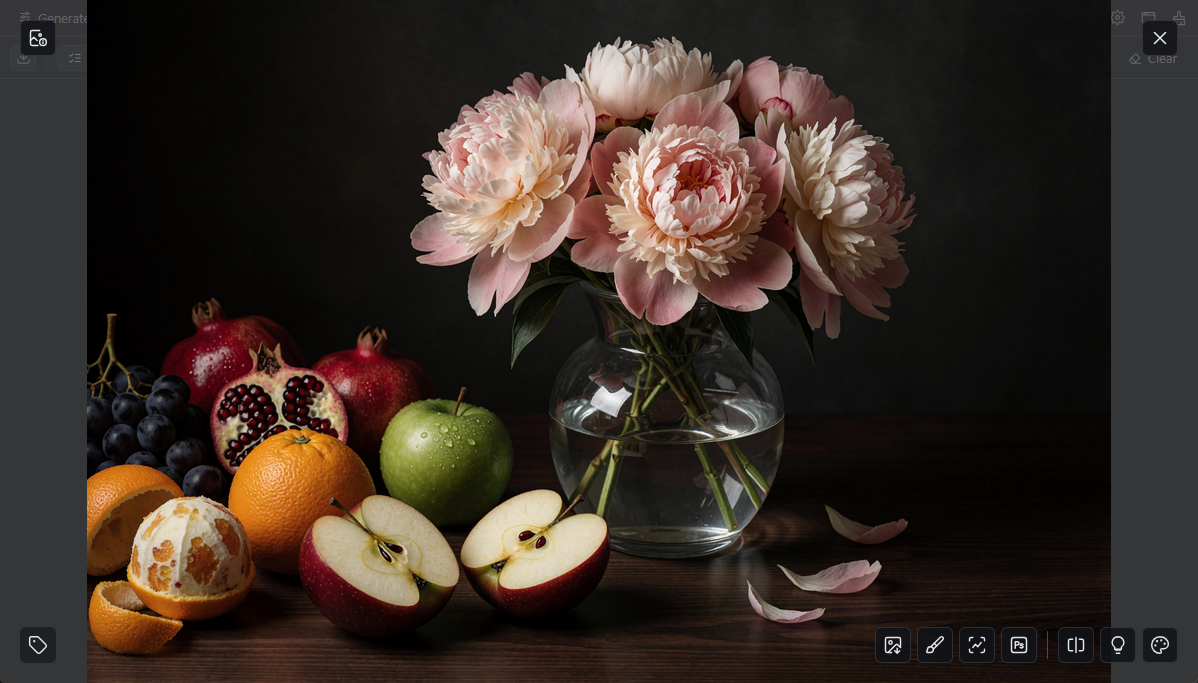
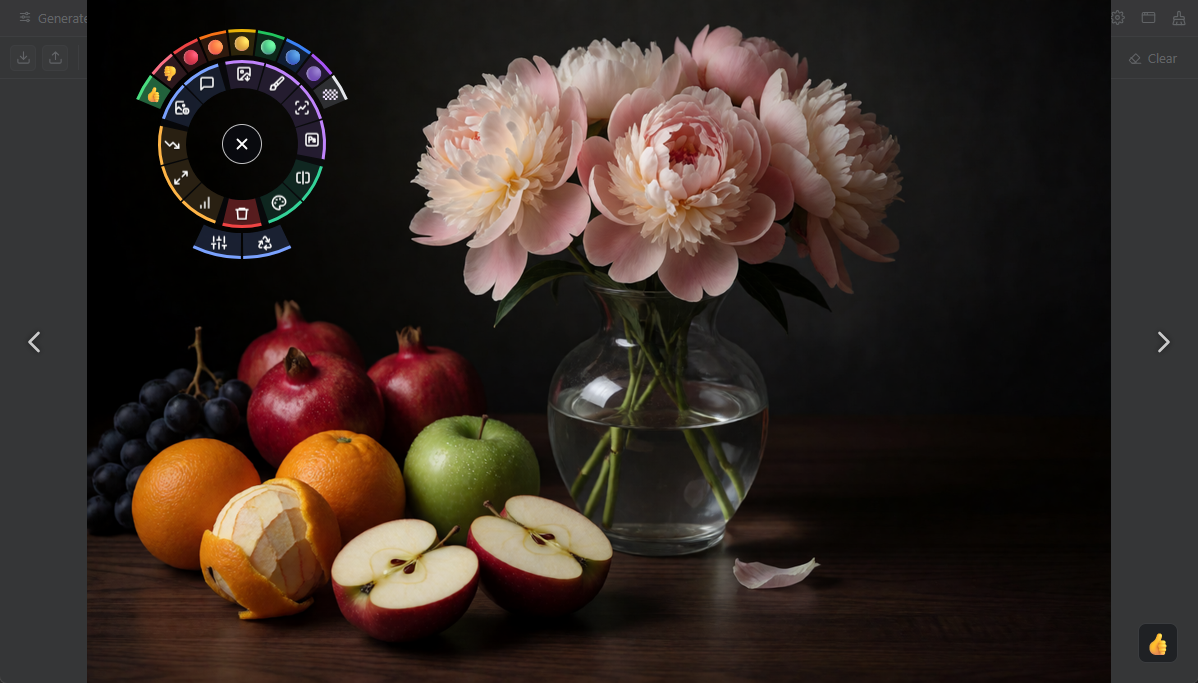
improved documentation

diff --git a/tutorial/index.html b/tutorial/index.html
@@ -47,6 +47,7 @@
   <symbol id="ic-denoise" viewBox="0 0 24 24" fill="none" stroke="currentColor" stroke-width="1.75" stroke-linecap="round" stroke-linejoin="round"><path d="m22 17-8.5-8.5-5 5L2 7"></path><path d="M16 17h6v-6"></path></symbol>
   <symbol id="ic-box" viewBox="0 0 24 24" fill="none" stroke="currentColor" stroke-width="1.75" stroke-linecap="round" stroke-linejoin="round"><path d="M21 8a2 2 0 0 0-1-1.73l-7-4a2 2 0 0 0-2 0l-7 4A2 2 0 0 0 3 8v8a2 2 0 0 0 1 1.73l7 4a2 2 0 0 0 2 0l7-4A2 2 0 0 0 21 16z"></path><path d="m3.3 7 8.7 5 8.7-5M12 22V12"></path></symbol>
   <symbol id="ic-info" viewBox="0 0 24 24" fill="none" stroke="currentColor" stroke-width="1.75" stroke-linecap="round" stroke-linejoin="round"><circle cx="12" cy="12" r="10"></circle><path d="M12 16v-4M12 8h.01"></path></symbol>
+  <symbol id="ic-close" viewBox="0 0 24 24" fill="none" stroke="currentColor" stroke-width="1.75" stroke-linecap="round" stroke-linejoin="round"><path d="M18 6 6 18M6 6l12 12"></path></symbol>
   <symbol id="i-wrench" viewBox="0 0 24 24" fill="none" stroke="currentColor" stroke-width="2" stroke-linecap="round" stroke-linejoin="round">
     <path d="M14.7 6.3a1 1 0 0 0 0 1.4l1.6 1.6a1 1 0 0 0 1.4 0l3.8-3.8a6 6 0 0 1-7.9 7.9l-6.9 6.9a2.1 2.1 0 0 1-3-3l6.9-6.9a6 6 0 0 1 7.9-7.9z"/>
   </symbol>
@@ -697,26 +698,24 @@
 
   <div class="topic">
     <h3>The image view</h3>
-    <p>Clicking a card, or pressing <kbd>V</kbd> over it, opens the image view, the overlay that shows the image over the whole window. The buttons at the lower right are the same send and tray actions you find on the action rim: Send to img2img, inpaint, ControlNet and your editor, and Add to compare, concept tray and image tray. The button at the top left opens the generation parameters, and the tag at the lower left sets a marking. The action and digit keys work here just as they do over a card.</p>
-    <p>Click the image to see it at full size; the point you clicked stays under the pointer. Drag to pan, and click the image again to fit it back to the window. Clicking the dark area around a fitted image closes the view.</p>
-    <p>Use <kbd>←</kbd> and <kbd>→</kbd> to move to the previous and next image. At full size, the zoom is kept as you move: the next image opens at full size, showing the same area, so you can step through a series and compare one detail across all of it.</p>
-    <div class="shots-row">
-      <figure>
-        <div class="window"><div class="window-bar"><i></i><i></i><i></i><span class="window-title">Image Bench — image view</span></div>
-          <img src="../landing/img/screenshots/image-view.webp" width="1198" height="683" loading="lazy" alt="An image in the image view: the parameters button at the top left, the close button at the top right, the marking tag at the lower left, and the action buttons at the lower right">
-        </div>
-        <figcaption>The image view, fitted to the window.</figcaption>
-      </figure>
-      <figure>
-        <div class="window"><div class="window-bar"><i></i><i></i><i></i><span class="window-title">Image Bench — image view at full size</span></div>
-          <img src="../landing/img/screenshots/image-view-zoom.webp" width="1195" height="682" loading="lazy" alt="The same image view at full size, showing a detail of the flowers and the vase">
-        </div>
-        <figcaption>At full size, the arrow keys keep showing this area on every image.</figcaption>
-      </figure>
-    </div>
+    <p>To open the image view, click a card or press <kbd>V</kbd> while the pointer is over it. The image view shows the image over the whole window. It has no toolbars, so the image uses the full window area, which matters most in a small window such as 1200×800. </p>
+    <figure>
+      <div class="window"><div class="window-bar"><i></i><i></i><i></i><span class="window-title">Image Bench — image view</span></div>
+        <img src="../landing/img/screenshots/image-view.webp" width="1198" height="683" loading="lazy" alt="An image in the image view with the action rim open at the pointer. The close button is in the center of the rim, the markings are in an arc above it, and Reuse seed and Reuse all are in an arc below it">
+      </div>
+      <figcaption>The image view with the action rim open. A middle click opens the rim.</figcaption>
+    </figure>
+    <ol class="steps">
+      <li>Press and hold the middle mouse button anywhere on the image. The rim opens around the pointer. Move the pointer to a sector and release the button to run that action. If you release the button outside the rim, nothing happens and the rim closes.</li>
+      <li>If you release the button without moving the pointer, the rim stays open. You can then click a sector with the left button. To close the image view, click <span class="ui"><svg width="14" height="14" aria-hidden="true"><use href="#ic-close"></use></svg></span> in the center of the rim. To close only the rim, click anywhere outside it or press <kbd>Esc</kbd>.</li>
+      <li>The ring has the same actions as the rim of a card. In the trays, it also has Delete. The arc above the ring sets a marking. The arc below the ring has Reuse seed and Reuse all, which copy the seed or all parameters of the image to WebUI or ComfyUI. The parameters sector shows the generation parameters over the image. The parameters stay visible when you move to another image.</li>
+    </ol>
+    <p>Click the image to show it at full size. The point that you clicked stays under the pointer. Drag the image to pan it, and click it again to fit it to the window. To close the image view, click the dark area around a fitted image or press <kbd>Esc</kbd>.</p>
+    <p>To go to the previous or next image, turn the mouse wheel or press <kbd>←</kbd> or <kbd>→</kbd>. At full size, the next image also opens at full size and shows the same area. This lets you compare one detail across a series of images. The rim always applies to the image that is currently shown, even if you scroll to another image while the rim is open.</p>
+    <p>If the image has a marking, the marking is shown in the lower right corner. Click it to remove the marking. A right click opens the same context menu as on a card, which includes Open in new window. The action keys and the digit keys work in the same way as over a card.</p>
     <div class="callout non-obvious">
       <div class="callout-title"><svg width="18" height="18" aria-hidden="true"><use href="#i-bulb"></use></svg>Good to know</div>
-      <p>Hold <kbd>Ctrl</kbd> to hide all buttons of the image view and see the whole image unobstructed. They come back when you release the key.</p>
+      <p>Hold <kbd>Ctrl</kbd> to show only the image. This hides the arrows, the marking, the parameters and the rim until you release the key.</p>
     </div>
   </div>
 
@@ -786,7 +785,7 @@
   <div class="topic">
     <h3>Compare</h3>
     <ol class="steps">
-      <li>Add images with <kbd>A</kbd> or the overlay button, by dropping files on the tab, or from your editor.</li>
+      <li>To add images, press <kbd>A</kbd>, use the action rim (on a card or in the image view), drop files on the tab, or send them from your editor.</li>
       <li>Zoom with the mouse wheel and pan by dragging. All images follow and show the same area, even if their resolutions differ.</li>
       <li>In select mode, drag to draw a region; it applies to every image. The crop grid then shows only these regions, side by side.</li>
       <li>Export the crops as a single PNG.</li>
@@ -1061,7 +1060,7 @@
   <div class="topic">
     <h3>Anywhere in the app</h3>
     <div class="keys">
-      <div class="key"><kbd>Ctrl</kbd><span>Hold over a card to show the action rim</span></div>
+      <div class="key"><kbd>Ctrl</kbd><span>Hold over a card to show the action rim. Hold in the image view to show only the image</span></div>
       <div class="key"><kbd>Shift</kbd><span>Run the alternative action (as does a middle click)</span></div>
       <div class="key"><kbd>Ctrl</kbd>+<kbd>S</kbd><span>Save the project</span></div>
       <div class="key"><kbd>Ctrl</kbd>+<kbd>`</kbd><span>Open or close the console drawer</span></div>

diff --git a/image-bench/src/components/library/ManualViewer.vue b/image-bench/src/components/library/ManualViewer.vue
@@ -678,8 +678,8 @@ const hostOrigin = location.origin;
       <p>
         To put an image into a tray, use the <AppIcon name="concept" :size="13" class="inline-icon"/> <b>Add to
         concept tray</b> or <AppIcon name="palette" :size="13" class="inline-icon"/> <b>Add to image tray</b>
-        action of its card (hold <span class="kbd">Ctrl</span> over the image to show the action rim), of the full
-        image view or of its context menu, or press <span class="kbd">Y</span> or <span class="kbd">T</span> over
+        action of its card (hold <span class="kbd">Ctrl</span> over the image to show the action rim), of the action
+        rim in the full image view (opened by a middle click) or of the context menu, or press <span class="kbd">Y</span> or <span class="kbd">T</span> over
         it. The tray's tab flashes when the image arrives. In a tray, only the action for the other tray is
         offered; it adds a copy of the image there.
       </p>
@@ -693,9 +693,9 @@ const hostOrigin = location.origin;
       <ul>
         <li><b>Markings</b> (👍 👎 🔴 🟠 🟡 🟢 🔵 🟣, and 🏁 for the final choice), available through the action menu's
           <AppIcon name="tag" :size="13" class="inline-icon"/> button. In the
-          full image view, hover over the badge at the bottom left (or the current marking) and click a marking, or
-          press <span class="kbd">1</span>–<span class="kbd">9</span>; clicking the current marking or pressing
-          <span class="kbd">0</span> removes it. On a thumbnail, click the marking to show only the
+          full image view, middle-click to open the action rim and select a marking in the arc above the ring, or
+          press <span class="kbd">1</span>–<span class="kbd">9</span>. To remove the marking, select the current
+          marking again, click the marking in the lower right corner or press <span class="kbd">0</span>. On a thumbnail, click the marking to show only the
           images that carry it, and click it again to show all; middle-click it to remove it. The
           <AppIcon name="filter" :size="13" class="inline-icon"/> button shows only marked images, or the marking
           being shown. The markings of the same images are synchronized across tabs.</li>
@@ -1454,14 +1454,19 @@ const hostOrigin = location.origin;
       <p>The window has these shortcuts:</p>
       <table>
         <tr><td><span class="kbd">Ctrl</span>+<span class="kbd">↑</span> / <span class="kbd">↓</span></td><td>Raise or lower the attention in a prompt</td></tr>
-        <tr><td><span class="kbd">←</span> <span class="kbd">→</span></td><td>Previous or next image in the image view</td></tr>
+        <tr><td><span class="kbd">←</span> <span class="kbd">→</span>, wheel</td><td>Previous or next image in the image view</td></tr>
         <tr><td><span class="kbd">Esc</span></td><td>Close the image view, or the topmost dialog</td></tr>
         <tr><td><span class="kbd">Ctrl</span>+<span class="kbd">U</span></td><td>Unselect all images</td></tr>
         <tr><td><span class="kbd">Ctrl</span>+<span class="kbd">S</span></td><td>Save the workspace into the
           current project</td></tr>
-        <tr><td><span class="kbd">Ctrl</span>+click</td><td>Switch between full size and fit to screen in the image view</td></tr>
-        <tr><td>Middle click</td><td>On an image, open it in a new tab. On a button, perform its alternative action
-          (place as a new layer in the editor). On a marking, remove it</td></tr>
+        <tr><td>Click</td><td>On the image in the image view, switch between full size and fit to screen. Drag to
+          pan the image</td></tr>
+        <tr><td><span class="kbd">Ctrl</span></td><td>Hold over an image card to show its action rim. Hold in the
+          image view to show only the image</td></tr>
+        <tr><td>Middle click</td><td>In the image view, open the action rim at the pointer. Release the button on a
+          sector to run it; the button in the center closes the image view. On an image card, open the image in a
+          new tab. On a button, perform its alternative action (place as a new layer in the editor). On a marking,
+          remove it</td></tr>
         <tr><td><span class="kbd">Shift</span>+click</td><td>On a button of an image, perform its alternative
           action</td></tr>
         <tr><td>Right click</td><td>Open the menu of an image</td></tr>
